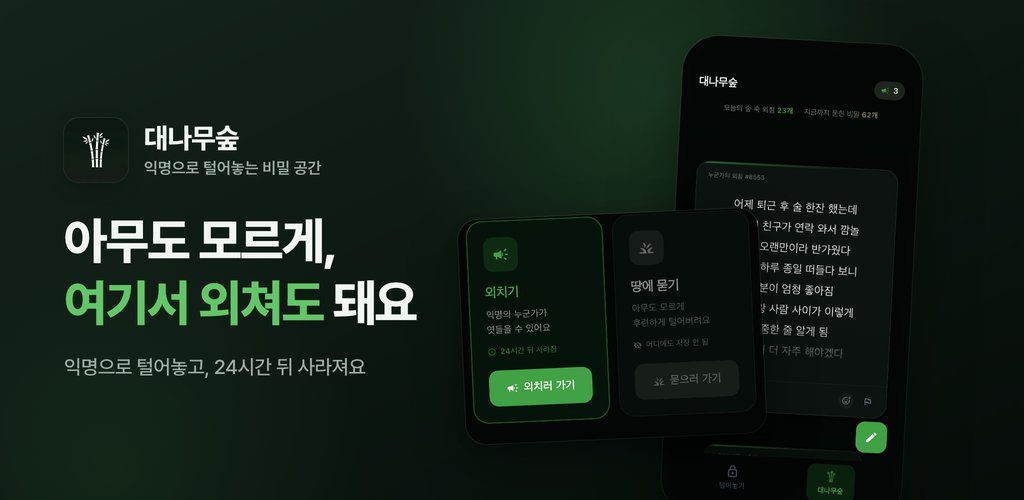
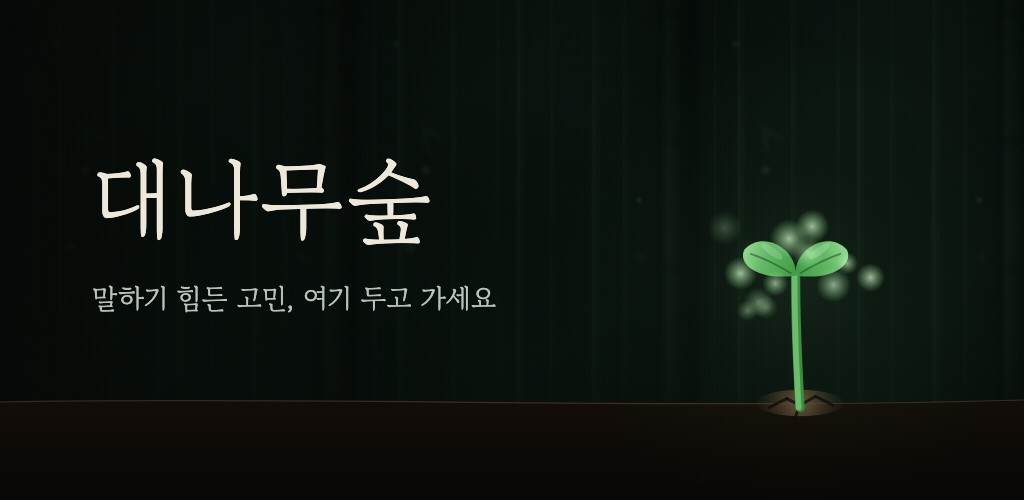
jukforest: 새 그래픽 배너(ko/en/es), 소개 문구 외치기·묻기·떡잎으로 갱신(ko/en/es/ja)
Claude-Session: https://claude.ai/code/session_012G4hTwna2xGyZdS7Qw4cLy

diff --git a/index.html b/index.html
@@ -491,10 +491,10 @@
                 <img src="juk-forest-icon.png" alt="" class="detail-icon">
                 <div class="detail-info">
                     <h2 data-i18n="apps.jukforest.name">대나무숲</h2>
-                    <div class="tagline" data-i18n="apps.jukforest.detail_tagline">24시간 후 바람처럼 사라집니다</div>
+                    <div class="tagline" data-i18n="apps.jukforest.detail_tagline">외치거나, 땅에 묻거나</div>
                 </div>
             </div>
-            <div class="description" data-i18n="apps.jukforest.detail_desc">익명으로 마음속 이야기를 나누는 공간. 모든 글은 24시간 뒤 자동으로 사라지며, 비공개 모드로 나만의 감정을 기록할 수도 있습니다.</div>
+            <div class="description" data-i18n="apps.jukforest.detail_desc">대나무숲에 익명으로 외치면 누군가 엿듣고 마음을 남겨 줘요. 외침은 24시간 뒤 바람처럼 흩어져 사라지고, 정말 말 못 할 이야기는 땅에 묻으면 어디에도 남지 않아요. 받은 공감만큼 내 떡잎이 자라요.</div>
             <div class="app-langs">
                 <span class="langs-label" data-i18n="langs_label">지원 언어</span>
                 <span class="langs-list">한국어<span class="separator">·</span>English<span class="separator">·</span>Español</span>
@@ -869,9 +869,9 @@
                 apps: {
                     jukforest: {
                         name: '대나무숲',
-                        tagline: '24시간 후 사라지는 익명 공간',
-                        detail_tagline: '24시간 후 바람처럼 사라집니다',
-                        detail_desc: '익명으로 마음속 이야기를 나누는 공간. 모든 글은 24시간 뒤 자동으로 사라지며, 비공개 모드로 나만의 감정을 기록할 수도 있습니다.',
+                        tagline: '말하기 힘든 고민, 여기 두고 가세요',
+                        detail_tagline: '외치거나, 땅에 묻거나',
+                        detail_desc: '대나무숲에 익명으로 외치면 누군가 엿듣고 마음을 남겨 줘요. 외침은 24시간 뒤 바람처럼 흩어져 사라지고, 정말 말 못 할 이야기는 땅에 묻으면 어디에도 남지 않아요. 받은 공감만큼 내 떡잎이 자라요.',
                     },
                     ounwan: {
                         name: '오운완',
@@ -1002,9 +1002,9 @@
                 apps: {
                     jukforest: {
                         name: 'Bamboo Forest',
-                        tagline: 'Anonymous thoughts. Gone in 24h.',
-                        detail_tagline: 'Every word drifts away in 24 hours',
-                        detail_desc: 'A quiet, anonymous space to share what\'s on your mind. Every post fades in 24 hours — or keep it private, just for yourself, like a diary only you can read.',
+                        tagline: 'Leave what you can\'t say out loud',
+                        detail_tagline: 'Shout it out, or bury it',
+                        detail_desc: 'Shout anonymously into the bamboo forest and someone may overhear and leave a kind feeling. Shouts drift away with the wind after 24 hours. For what you truly can\'t say, bury it in the ground — it\'s kept nowhere. Your sprout grows with every feeling you receive.',
                     },
                     ounwan: {
                         name: 'Ounwan',
@@ -1135,9 +1135,9 @@
                 apps: {
                     jukforest: {
                         name: 'Bosque de Bambú',
-                        tagline: 'Anónimo. Desaparece en 24 h.',
-                        detail_tagline: 'A las 24 horas, se lo lleva el viento',
-                        detail_desc: 'Un espacio anónimo para desahogar lo que llevas dentro. Cada mensaje se borra solo a las 24 horas, y en modo privado puedes escribir únicamente para ti.',
+                        tagline: 'Deja aquí lo que no puedes decir',
+                        detail_tagline: 'Grítalo o entiérralo',
+                        detail_desc: 'Grita de forma anónima al bosque de bambú y alguien podrá escucharte y dejarte un sentir. Los gritos se los lleva el viento a las 24 horas. Lo que de verdad no puedes contar, entiérralo: no se guarda en ningún lado. Tu brote crece con cada sentir que recibes.',
                     },
                     ounwan: {
                         name: 'Ounwan',
@@ -1268,9 +1268,9 @@
                 apps: {
                     jukforest: {
                         name: '竹林',
-                        tagline: '24時間後に消える匿名スペース',
-                        detail_tagline: '24時間後、風のように消えます',
-                        detail_desc: '匿名で心の中の話を分かち合うスペース。すべての投稿は24時間後に自動で消え、非公開モードで自分だけの気持ちを記録することもできます。',
+                        tagline: '言えない悩み、ここに置いていって',
+                        detail_tagline: '叫ぶか、土に埋めるか',
+                        detail_desc: '竹林に匿名で叫ぶと、誰かが聞いて気持ちを残してくれます。叫びは24時間後に風のように消え、本当に言えない話は土に埋めればどこにも残りません。もらった共感の分だけ双葉が育ちます。',
                     },
                     ounwan: {
                         name: 'オウンワン',
@@ -1473,7 +1473,7 @@
         ];
         // [앱, 라벨 키, 라벨 색]
         // 언어별 배너(Play 그 언어 등록정보의 피처 그래픽) — 없으면 ko(banners/<id>.jpg). ja는 en을 쓴다.
-        const BANNER_LANGS = { amen: ['en', 'es'], bagshot: ['en', 'es'], doughlab: ['en', 'es'], dustler: ['en', 'es'], ounwan: ['en', 'es'], sogak: ['en', 'es'] };
+        const BANNER_LANGS = { amen: ['en', 'es'], bagshot: ['en', 'es'], doughlab: ['en', 'es'], dustler: ['en', 'es'], jukforest: ['en', 'es'], ounwan: ['en', 'es'], sogak: ['en', 'es'] };
         function bannerSrc(id) {
             const l = currentLang === 'ja' ? 'en' : currentLang;
             return 'banners/' + id + ((BANNER_LANGS[id] || []).includes(l) ? '_' + l : '') + '.jpg';
